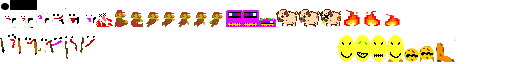
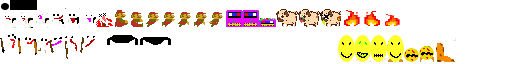
I added trampoline

Changed region(s): [[0.1875, 0.5312, 0.3438, 0.7188]]

diff --git a/core/src/com/mat/mariobros/Sprites/Enemies/Trampoline.java b/core/src/com/mat/mariobros/Sprites/Enemies/Trampoline.java
@@ -17,43 +17,32 @@ import com.mat.mariobros.Sprites.Mario;
 import com.mat.mariobros.Sprites.Other.Bomb;
 import com.mat.mariobros.Sprites.Other.FireBall;
 
-public class Dog extends Enemy {
+public class Trampoline extends Enemy {
 
     private float stateTime;
     private Animation walkAnimation;
     private Array<TextureRegion> frames;
-    private boolean setToDestroy;
-    private  boolean destroyedDog;          ///////private
 
 
-    public Dog(PlayScreen screen, float x, float y) {
+
+    public Trampoline(PlayScreen screen, float x, float y) {
         super(screen, x, y);
         frames = new Array<TextureRegion>();
         for (int i = 0; i < 2; i++)
-            frames.add(new TextureRegion(screen.getAtlas().findRegion("dog"), i * 22,0,22,18));   /// i * 16,0,16,16));
-        walkAnimation = new Animation(0.4f, frames);
+            frames.add(new TextureRegion(screen.getAtlas().findRegion("trampoline"), i * 33,0,33,11));
+        walkAnimation = new Animation(0.5f, frames);
         stateTime = 0;
-        setBounds(getX(), getY(), 16/ MarioBros.PPM,16 / MarioBros.PPM);
-        setToDestroy = false;
-        destroyedDog = false;
-//        angle = 0;
+        setBounds(getX(), getY(), 70/ MarioBros.PPM,16 / MarioBros.PPM);
+
 
     }
 
     public void update(float dt){
         stateTime += dt;
-        if (setToDestroy && !destroyedDog){    ////////// 32,0,16,16));
-            world.destroyBody(b2body);
-            destroyedDog = true;
-            MarioBros.manager.get("audio/sounds/dog.wav", Sound.class).play();
-            setRegion(new TextureRegion(screen.getAtlas().findRegion("dog"), 44,0,22,18));
-            stateTime = 0;
-        }
-        else if (!destroyedDog) {
             b2body.setLinearVelocity(velocity);
             setPosition(b2body.getPosition().x - getWidth() / 2, b2body.getPosition().y - getHeight() / 2);
             setRegion((TextureRegion) walkAnimation.getKeyFrame(stateTime, true));
-        }
+
     }
 
     @Override
@@ -61,12 +50,12 @@ public class Dog extends Enemy {
 
         BodyDef bdef = new BodyDef();
         bdef.position.set(getX(), getY());
-        bdef.type = BodyDef.BodyType.DynamicBody;
+        bdef.type = BodyDef.BodyType.StaticBody;
         b2body = world.createBody(bdef);
 
         FixtureDef fdef = new FixtureDef();
         CircleShape shape = new CircleShape();
-        shape.setRadius(3/ MarioBros.PPM);              //////////radio
+        shape.setRadius(0.1f/ MarioBros.PPM);              //////////radio
         fdef.filter.categoryBits = MarioBros.ENEMY_BIT;
         fdef.filter.maskBits = MarioBros.GROUND_BIT |
                 MarioBros.COIN_BIT |
@@ -83,14 +72,14 @@ public class Dog extends Enemy {
         PolygonShape head = new PolygonShape();
         Vector2[] vertice = new Vector2[4];
 
-        vertice[0] = new Vector2(-5,8).scl(1 / MarioBros.PPM);
-        vertice[1] = new Vector2(5,8).scl(1 / MarioBros.PPM);
-        vertice[2] = new Vector2(-3,3).scl(1 / MarioBros.PPM);
-        vertice[3] = new Vector2(3,3).scl(1 / MarioBros.PPM);
+        vertice[0] = new Vector2(-20,8).scl(1 / MarioBros.PPM);
+        vertice[1] = new Vector2(20,8).scl(1 / MarioBros.PPM);
+        vertice[2] = new Vector2(-20,3).scl(1 / MarioBros.PPM);
+        vertice[3] = new Vector2(20,3).scl(1 / MarioBros.PPM);
         head.set(vertice);
 
         fdef.shape = head;
-        fdef.restitution = 0.5f;
+        fdef.restitution = 1.2f;
         fdef.filter.categoryBits = MarioBros.ENEMY_HEAD_BIT;
         b2body.createFixture(fdef).setUserData(this);
 
@@ -98,38 +87,30 @@ public class Dog extends Enemy {
     }
 
     public void draw(Batch batch){
-        if (!destroyedDog || stateTime <1)
+
             super.draw(batch);
 
     }
 
     public void hitByEnemy(Enemy enemy){
 
-        if (enemy instanceof Turtle && ((Turtle) enemy).currentState == Turtle.State.MOVING_SHELL)
-            setToDestroy = true;
-        else
-            reverseVelocity(true, false);
-
     }
 
     @Override
     public void flamed(FireBall fireball) {
-        setToDestroy = true;
-        Hud.addScore(100);
-        fireball.setToDestroy();
+
+
     }
 
     @Override
     public void flamed(Bomb bomb) {
-        setToDestroy = true;
-        Hud.addScore(100);
-        bomb.setToDestroy();
+
     }
 
     @Override
     public void hitOnHead(Mario mario) {
 
-        setToDestroy = true;
+
         MarioBros.manager.get("audio/sounds/stomp.wav", Sound.class).play();
 
     }

diff --git a/core/src/com/mat/mariobros/Tools/B2WorldCreator.java b/core/src/com/mat/mariobros/Tools/B2WorldCreator.java
@@ -15,6 +15,7 @@ import com.mat.mariobros.Screens.PlayScreen;
 import com.mat.mariobros.Sprites.Enemies.Dog;
 import com.mat.mariobros.Sprites.Enemies.Enemy;
 import com.mat.mariobros.Sprites.Enemies.Fire;
+import com.mat.mariobros.Sprites.Enemies.Trampoline;
 import com.mat.mariobros.Sprites.Enemies.Turtle;
 import com.mat.mariobros.Sprites.TitleObjects.Brick;
 import com.mat.mariobros.Sprites.TitleObjects.Coin;
@@ -24,6 +25,7 @@ public class B2WorldCreator {
     private Array<Goomba> goombas;
     private Array<Dog> dogs;
     private Array<Fire> fires;
+    private Array<Trampoline> trampolines;
     private Array<Turtle> turtles;
 
     public B2WorldCreator(PlayScreen screen) {
@@ -113,6 +115,16 @@ public class B2WorldCreator {
 
         ///create fire
 
+        ///create trampoline
+
+        trampolines = new Array<Trampoline>();
+        for (MapObject object : map.getLayers().get(10).getObjects().getByType(RectangleMapObject.class)){
+            Rectangle rect = ((RectangleMapObject) object).getRectangle();
+            trampolines.add(new Trampoline(screen, rect.getX() / MarioBros.PPM, rect.getY() / MarioBros.PPM));
+        }
+
+        ///create trampoline
+
     }
 
     public Array<Goomba> getGoombas() {
@@ -135,12 +147,21 @@ public class B2WorldCreator {
 
     ///fire
 
+    ///trampoline
+
+    public Array<Trampoline> getTrampolines() {
+        return trampolines;
+    }
+
+    ///trampoline
+
     public Array<Enemy> getEnemies(){
         Array<Enemy> enemies = new Array<Enemy>();
         enemies.addAll(goombas);
         enemies.addAll(dogs);
         enemies.addAll(fires);
         enemies.addAll(turtles);
+        enemies.addAll(trampolines);
         return enemies;
     }
 }
